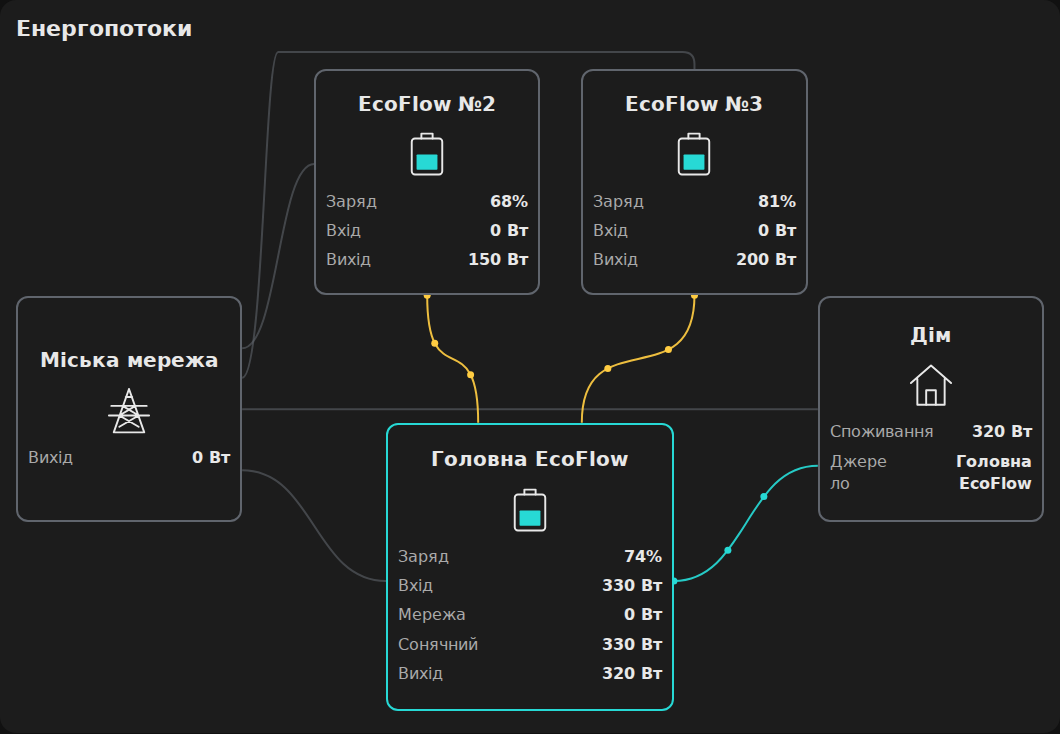
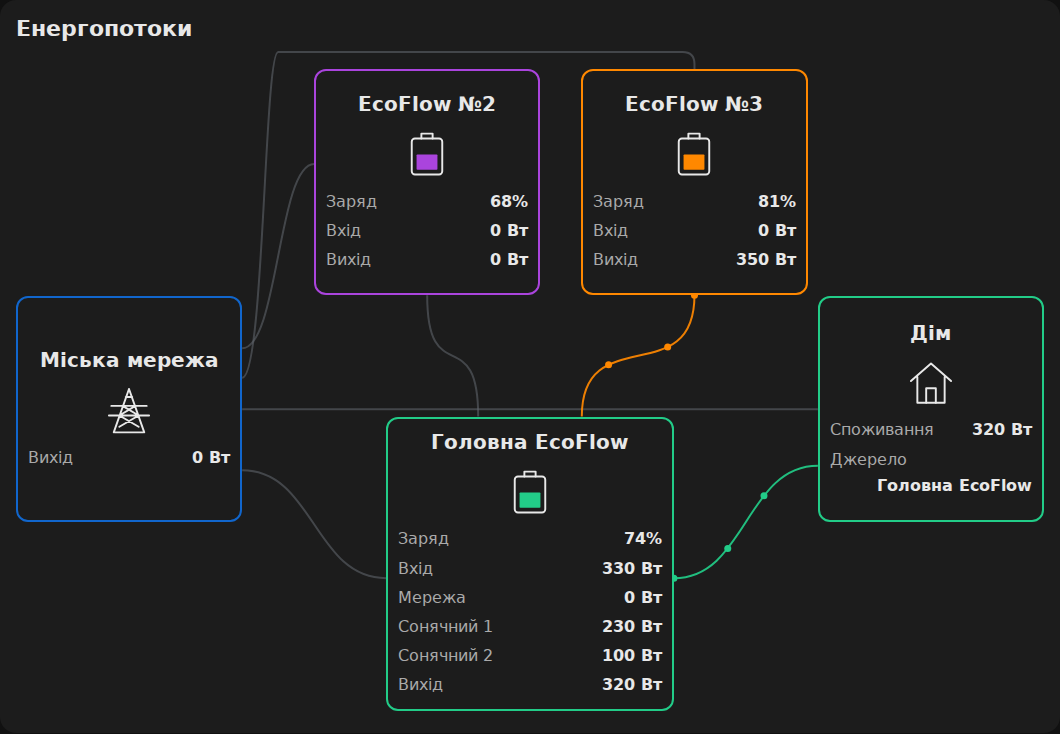
Add two solar inputs and matching source colors

diff --git a/suris-ecoflow-flow-card.js b/suris-ecoflow-flow-card.js
@@ -1,8 +1,8 @@
-/* Suris EcoFlow Flow Card v0.1.3 | MIT | No external dependencies. */
+/* Suris EcoFlow Flow Card v0.1.4 | MIT | No external dependencies. */
 (() => {
   'use strict';
   const TAG = 'suris-ecoflow-flow-card';
-  const VERSION = '0.1.3';
+  const VERSION = '0.1.4';
   const NS = 'http://www.w3.org/2000/svg';
   const DEFAULTS = {
     type: `custom:${TAG}`, title: 'Енергопотоки', language: 'uk',
@@ -24,10 +24,12 @@
       result[key] = { ...DEFAULTS[key], ...config[key] };
     }
     const a = result.appearance;
+    a.auxiliary_1_color = a.auxiliary_1_color || a.solar_color;
+    a.auxiliary_2_color = a.auxiliary_2_color || a.solar_color;
     a.threshold = Number(a.threshold); a.duration = Number(a.duration);
     if (!Number.isFinite(a.threshold) || a.threshold < 0) throw new Error('Flow threshold must be a non-negative number');
     if (!Number.isFinite(a.duration) || a.duration < 0.5 || a.duration > 20) throw new Error('Animation duration must be between 0.5 and 20 seconds');
-    for (const key of ['grid_color', 'solar_color', 'main_color']) {
+    for (const key of ['grid_color', 'solar_color', 'main_color', 'auxiliary_1_color', 'auxiliary_2_color']) {
       if (!/^#[0-9a-f]{6}$/i.test(a[key])) throw new Error(`${key} must be a six-digit hex color`);
     }
     return result;
@@ -46,8 +48,13 @@
     const c = config, p = (id) => readNumber(states, id, true);
     const station = (s) => ({ input: p(s.input_power), output: p(s.output_power), soc: readNumber(states, s.soc) });
     const main = station(c.main), auxiliary_1 = station(c.auxiliary_1), auxiliary_2 = station(c.auxiliary_2);
-    main.ac = p(c.main.ac_input_power); main.solar = p(c.main.solar_input_power);
-    if (!c.main.input_power && main.ac != null && main.solar != null) main.input = main.ac + main.solar;
+    main.ac = p(c.main.ac_input_power);
+    main.solar_1 = p(c.main.solar_input_power);
+    main.solar_2 = p(c.main.solar_input_power_2);
+    if (!c.main.input_power) {
+      const inputs = [c.main.ac_input_power, c.main.solar_input_power, c.main.solar_input_power_2].filter(Boolean).map(p);
+      if (inputs.length && inputs.every(value => value != null)) main.input = inputs.reduce((sum, value) => sum + value, 0);
+    }
     const gridState = c.grid.available_entity && states[c.grid.available_entity]?.state;
     const availableState = String(c.grid.available_state || 'on');
     const absentState = availableState === 'on' ? 'off' : availableState === 'off' ? 'on' : null;
@@ -73,13 +80,12 @@
       }
     }
     const positive = (value) => value != null && value > c.appearance.threshold;
-    const solarReceiving = !c.main.solar_input_power || positive(main.solar);
     const flows = {
       grid_auxiliary_1: gridAvailable && positive(p(c.auxiliary_1.grid_charge_power || c.auxiliary_1.input_power)),
       grid_auxiliary_2: gridAvailable && positive(p(c.auxiliary_2.grid_charge_power || c.auxiliary_2.input_power)),
       grid_main: gridAvailable && positive(main.ac),
-      auxiliary_1_main: solarReceiving && positive(p(c.auxiliary_1.transfer_power || c.auxiliary_1.output_power)),
-      auxiliary_2_main: solarReceiving && positive(p(c.auxiliary_2.transfer_power || c.auxiliary_2.output_power)),
+      auxiliary_1_main: positive(p(c.auxiliary_1.transfer_power || c.auxiliary_1.output_power)),
+      auxiliary_2_main: positive(p(c.auxiliary_2.transfer_power || c.auxiliary_2.output_power)),
       grid_home: gridAvailable && source === 'grid' && positive(homePower),
       main_home: source === 'main' && positive(homePower)
     };
@@ -94,17 +100,17 @@
     return `<svg viewBox="0 0 64 64" aria-hidden="true">${paths[kind]}</svg>`;
   };
   const CSS = `
-    :host{display:block;--flow-grid:#4b9fff;--flow-solar:#ffcc42;--flow-main:#27d9d5}
+    :host{display:block;--flow-grid:#4b9fff;--flow-auxiliary_1:#ffcc42;--flow-auxiliary_2:#ffcc42;--flow-main:#27d9d5}
     *{box-sizing:border-box}ha-card{display:block;overflow:hidden;background:var(--ha-card-background,var(--card-background-color,#1c1c1c));color:var(--primary-text-color,#e8e8e8);padding:16px;border-radius:var(--ha-card-border-radius,16px)}
     .wrap{container-type:inline-size}h2{font-size:22px;font-weight:600;margin:0 0 8px}.diagram{position:relative;height:clamp(470px,65cqw,720px)}
     .lines{position:absolute;inset:0;width:100%;height:100%;overflow:visible;pointer-events:none}
     .flow path{fill:none;stroke:var(--divider-color,#60656d);stroke-width:2;opacity:.58}.flow.active path{stroke:var(--color);opacity:.92}.flow circle{fill:var(--color);visibility:hidden}.flow.active circle{visibility:visible}
-    .node{position:absolute;display:flex;flex-direction:column;justify-content:center;gap:7px;min-width:0;background:var(--ha-card-background,var(--card-background-color,#1c1c1c));border:2px solid var(--divider-color,#60656d);border-radius:12px;padding:12px 10px;z-index:1;min-height:max(140px,22cqw);height:auto}
-    .node h3{font-size:clamp(12px,1.9cqw,20px);line-height:1.25;text-align:center;margin:0;font-weight:600;overflow-wrap:anywhere}.node .icon{display:flex;justify-content:center;height:clamp(30px,5cqw,56px);margin:4px 0}.icon svg{height:100%;width:64px;fill:none;stroke:currentColor;stroke-width:2.4;stroke-linecap:round;stroke-linejoin:round}.icon .battery-fill{fill:var(--flow-main);stroke:none}
-    .row{display:flex;align-items:baseline;justify-content:space-between;gap:4px;font-size:clamp(11px,1.6cqw,17px);line-height:1.35;min-width:0}.label{color:var(--secondary-text-color,#aaa);overflow-wrap:anywhere}.value{font:inherit;color:inherit;font-weight:600;text-align:right;white-space:nowrap;background:none;border:0;padding:0;min-width:0}.value[data-entity]{cursor:pointer}.value:focus-visible{outline:2px solid var(--flow-main);outline-offset:2px}.value:disabled{opacity:1}.source .value{white-space:normal;overflow-wrap:anywhere}
-    .grid{left:0;top:37%;width:22%}.home{right:0;top:37%;width:22%}.auxiliary_1{left:29%;top:3%;width:22%}.auxiliary_2{left:55%;top:3%;width:22%}.main{left:36%;bottom:1%;width:28%;min-height:max(220px,28cqw);border-color:var(--flow-main)}
+    .node{position:absolute;display:flex;flex-direction:column;justify-content:center;gap:7px;min-width:0;background:var(--ha-card-background,var(--card-background-color,#1c1c1c));border:2px solid var(--node-color,var(--divider-color,#60656d));border-radius:12px;padding:12px 10px;z-index:1;min-height:max(140px,22cqw);height:auto}
+    .node h3{font-size:clamp(12px,1.9cqw,20px);line-height:1.25;text-align:center;margin:0;font-weight:600;overflow-wrap:anywhere}.node .icon{display:flex;justify-content:center;height:clamp(30px,5cqw,56px);margin:4px 0}.icon svg{height:100%;width:64px;fill:none;stroke:currentColor;stroke-width:2.4;stroke-linecap:round;stroke-linejoin:round}.icon .battery-fill{fill:var(--node-color,var(--flow-main));stroke:none}
+    .row{display:flex;align-items:baseline;justify-content:space-between;gap:4px;font-size:clamp(11px,1.6cqw,17px);line-height:1.35;min-width:0}.label{color:var(--secondary-text-color,#aaa);overflow-wrap:anywhere}.value{font:inherit;color:inherit;font-weight:600;text-align:right;white-space:nowrap;background:none;border:0;padding:0;min-width:0}.value[data-entity]{cursor:pointer}.value:focus-visible{outline:2px solid var(--flow-main);outline-offset:2px}.value:disabled{opacity:1}.source{flex-wrap:wrap}.source .label{width:100%}.source .value{margin-left:auto;white-space:normal;overflow-wrap:anywhere}
+    .grid{left:0;top:37%;width:22%}.home{right:0;top:37%;width:22%}.auxiliary_1{left:29%;top:3%;width:22%}.auxiliary_2{left:55%;top:3%;width:22%}.main{left:36%;bottom:1%;width:28%;min-height:max(220px,28cqw)}
     .status{margin-top:8px;color:var(--secondary-text-color,#aaa);font-size:12px;min-height:16px;text-align:center}.status:empty{display:none}
-    @container(max-width:520px){.diagram{height:500px}.node{padding:8px 5px;gap:6px;border-radius:9px;min-height:137px}.node h3{font-size:12px}.node .icon{height:29px;margin:0}.row{font-size:11px;flex-wrap:wrap;gap:0 3px}.row .value{margin-left:auto}.grid,.home{width:24%;top:38%}.auxiliary_1{left:26%;width:25%;top:5%}.auxiliary_2{left:54%;width:25%;top:5%}.main{left:33%;width:34%;min-height:202px}.source .label{width:100%}}
+    @container(max-width:520px){.diagram{height:500px}.node{padding:8px 5px;gap:6px;border-radius:9px;min-height:137px}.node h3{font-size:12px}.node .icon{height:29px;margin:0}.row{font-size:11px;flex-wrap:wrap;gap:0 3px}.row .value{margin-left:auto}.grid,.home{width:24%;top:38%}.home .power .label{font-size:clamp(8px,2.8cqw,11px);overflow-wrap:normal}.auxiliary_1{left:26%;width:25%;top:5%}.auxiliary_2{left:54%;width:25%;top:5%}.main{left:33%;width:34%;min-height:202px}}
     @media(prefers-reduced-motion:reduce){.flow circle{display:none}.flow.active path{stroke-width:3}}
   `;
   class SurisEcoFlowFlowCard extends HTMLElement {
@@ -148,9 +154,10 @@
       this.shadowRoot.querySelector('h2').textContent = c.title;
       this._diagram = this.shadowRoot.querySelector('.diagram'); this._svg = this.shadowRoot.querySelector('.lines');
       this._nodes = {}; this._values = {}; this._flows = {};
-      this.style.setProperty('--flow-grid', c.appearance.grid_color); this.style.setProperty('--flow-solar', c.appearance.solar_color); this.style.setProperty('--flow-main', c.appearance.main_color);
+      for (const key of ['grid', 'auxiliary_1', 'auxiliary_2', 'main']) this.style.setProperty(`--flow-${key}`, c.appearance[`${key}_color`]);
       for (const key of ['grid', 'auxiliary_1', 'auxiliary_2', 'main', 'home']) {
         const node = document.createElement('section'); node.className = `node ${key}`; node.dataset.key = key;
+        if (key !== 'home') node.style.setProperty('--node-color', `var(--flow-${key})`);
         const heading = document.createElement('h3'); heading.textContent = c[key].name || text[key] || key;
         const artwork = document.createElement('div'); artwork.className = 'icon'; artwork.innerHTML = icon(key === 'grid' ? 'grid' : key === 'home' ? 'home' : 'battery');
         node.append(heading, artwork);
@@ -158,7 +165,7 @@
         else if (key === 'home') { this._row(node, 'power', text.power); this._row(node, 'source', text.source); }
         else {
           this._row(node, 'soc', text.soc); this._row(node, 'input', text.input);
-          if (key === 'main') { this._row(node, 'ac', text.ac); this._row(node, 'solar', text.solar); }
+          if (key === 'main') { this._row(node, 'ac', text.ac); this._row(node, 'solar_1', `${text.solar} 1`); this._row(node, 'solar_2', `${text.solar} 2`); }
           this._row(node, 'output', text.output);
         }
         this._nodes[key] = node; this._diagram.append(node);
@@ -179,7 +186,8 @@
         if (node === 'grid') entity = c.grid.power;
         if (node === 'home') entity = field === 'source' ? c.grid.available_entity : c.home.power;
         if (node === 'main' && field === 'ac') entity = c.main.ac_input_power;
-        if (node === 'main' && field === 'solar') entity = c.main.solar_input_power;
+        if (node === 'main' && field === 'solar_1') entity = c.main.solar_input_power;
+        if (node === 'main' && field === 'solar_2') entity = c.main.solar_input_power_2;
         if (field === 'source') value = value === 'grid' ? c.grid.name : value === 'main' ? c.main.name : text.unknown;
         else if (field === 'soc') value = value != null && value >= 0 && value <= 100 ? `${formatter.format(value)}%` : '—';
         else value = value == null ? '—' : `${node === 'home' && data.home.power_origin === 'grid_balance' ? '≈ ' : ''}${formatter.format(value)} ${text.watts}`;
@@ -191,6 +199,7 @@
       }
       const status = this.shadowRoot.querySelector('.status');
       status.textContent = !c.grid.available_entity ? text.setup : data.home.source === 'unknown' ? text.mismatch : '';
+      this._nodes.home.style.setProperty('--node-color', data.home.source === 'unknown' ? 'var(--divider-color,#60656d)' : `var(--flow-${data.home.source})`);
       for (const [name, flow] of Object.entries(this._flows)) flow.classList.toggle('active', data.flows[name]);
     }
     _drawPaths() {
@@ -213,7 +222,7 @@
       this._geometry = geometry; this._svg.setAttribute('viewBox', `0 0 ${base.width} ${base.height}`); this._svg.replaceChildren(); this._flows = {};
       for (const [name, route] of Object.entries(routes)) {
         const group = document.createElementNS(NS, 'g'); group.classList.add('flow'); group.dataset.flow = name;
-        const color = name.startsWith('grid') ? 'grid' : name === 'main_home' ? 'main' : 'solar';
+        const color = name.startsWith('grid') ? 'grid' : name === 'main_home' ? 'main' : name.startsWith('auxiliary_1') ? 'auxiliary_1' : 'auxiliary_2';
         group.style.setProperty('--color', `var(--flow-${color})`);
         const path = document.createElementNS(NS, 'path'); path.setAttribute('d', route); group.append(path);
         for (let i = 0; i < 3; i++) {
@@ -237,8 +246,8 @@
     } catch (error) { console.debug(`${TAG}: form preload`, error); }
   }
   const FIELD_LABELS = {
-    uk: { title: 'Заголовок', language: 'Мова', name: 'Назва', power: 'Потужність', input_power: 'Загальна вхідна потужність', output_power: 'Загальна вихідна потужність', soc: 'Заряд батареї (%)', ac_input_power: 'Потужність входу від міської мережі (AC)', solar_input_power: 'Потужність сонячного входу (DC)', grid_charge_power: 'Потужність заряджання від мережі (необов’язково)', transfer_power: 'Потужність передачі на головну EcoFlow (необов’язково)', home_feed_power: 'Потужність виходу на дім (необов’язково)', available_entity: 'Наявність міської мережі', available_state: 'Стан «мережа є»', source_entity: 'Сутність джерела живлення дому', grid_state: 'Стан «дім від міської мережі»', main_state: 'Стан «дім від головної EcoFlow»', grid_color: 'Колір потоків мережі (#RRGGBB)', solar_color: 'Колір передачі між станціями (#RRGGBB)', main_color: 'Колір потоку головна EcoFlow → дім (#RRGGBB)', threshold: 'Поріг активного потоку (Вт)', duration: 'Час проходження точки (с)' },
-    en: { title: 'Title', language: 'Language', name: 'Name', power: 'Power', input_power: 'Total input power', output_power: 'Total output power', soc: 'Battery charge (%)', ac_input_power: 'City grid input power (AC)', solar_input_power: 'Solar input power (DC)', grid_charge_power: 'Grid charging power (optional)', transfer_power: 'Transfer power to main EcoFlow (optional)', home_feed_power: 'Output power to home (optional)', available_entity: 'Grid availability', available_state: 'Grid available state', source_entity: 'Home power source entity', grid_state: 'State: home powered by grid', main_state: 'State: home powered by main EcoFlow', grid_color: 'Grid flow color (#RRGGBB)', solar_color: 'Station transfer color (#RRGGBB)', main_color: 'Main EcoFlow → home color (#RRGGBB)', threshold: 'Active flow threshold (W)', duration: 'Dot travel duration (s)' }
+    uk: { title: 'Заголовок', language: 'Мова', name: 'Назва', power: 'Потужність', input_power: 'Загальна вхідна потужність', output_power: 'Загальна вихідна потужність', soc: 'Заряд батареї (%)', ac_input_power: 'Потужність входу від міської мережі (AC)', solar_input_power: 'Потужність сонячного входу 1 (DC)', solar_input_power_2: 'Потужність сонячного входу 2 (DC)', grid_charge_power: 'Потужність заряджання від мережі (необов’язково)', transfer_power: 'Потужність передачі на головну EcoFlow (необов’язково)', home_feed_power: 'Потужність виходу на дім (необов’язково)', available_entity: 'Наявність міської мережі', available_state: 'Стан «мережа є»', source_entity: 'Сутність джерела живлення дому', grid_state: 'Стан «дім від міської мережі»', main_state: 'Стан «дім від головної EcoFlow»', grid_color: 'Колір мережі: рамка та потоки (#RRGGBB)', auxiliary_1_color: 'Колір EcoFlow №2: рамка та потік (#RRGGBB)', auxiliary_2_color: 'Колір EcoFlow №3: рамка та потік (#RRGGBB)', solar_color: 'Колір передачі між станціями (#RRGGBB)', main_color: 'Колір головної EcoFlow: рамка та потік (#RRGGBB)', threshold: 'Поріг активного потоку (Вт)', duration: 'Час проходження точки (с)' },
+    en: { title: 'Title', language: 'Language', name: 'Name', power: 'Power', input_power: 'Total input power', output_power: 'Total output power', soc: 'Battery charge (%)', ac_input_power: 'City grid input power (AC)', solar_input_power: 'Solar input 1 power (DC)', solar_input_power_2: 'Solar input 2 power (DC)', grid_charge_power: 'Grid charging power (optional)', transfer_power: 'Transfer power to main EcoFlow (optional)', home_feed_power: 'Output power to home (optional)', available_entity: 'Grid availability', available_state: 'Grid available state', source_entity: 'Home power source entity', grid_state: 'State: home powered by grid', main_state: 'State: home powered by main EcoFlow', grid_color: 'Grid border and flow color (#RRGGBB)', auxiliary_1_color: 'EcoFlow #2 border and flow color (#RRGGBB)', auxiliary_2_color: 'EcoFlow #3 border and flow color (#RRGGBB)', solar_color: 'Station transfer color (#RRGGBB)', main_color: 'Main EcoFlow border and flow color (#RRGGBB)', threshold: 'Active flow threshold (W)', duration: 'Dot travel duration (s)' }
   };
   const entityField = (name, power = true) => ({ name, selector: { entity: power ? { domain: 'sensor' } : {} } });
   const textField = (name) => ({ name, selector: { text: {} } });
@@ -267,9 +276,9 @@
         ['grid', text.grid, [textField('name'), entityField('power'), entityField('available_entity', false), textField('available_state')], ''],
         ['auxiliary_1', c.auxiliary_1.name, [...stationSchema, entityField('grid_charge_power'), entityField('transfer_power')], text.auxHint],
         ['auxiliary_2', c.auxiliary_2.name, [...stationSchema, entityField('grid_charge_power'), entityField('transfer_power')], text.auxHint],
-        ['main', text.main, [...stationSchema, entityField('ac_input_power'), entityField('solar_input_power'), entityField('home_feed_power')], text.mainHint],
+        ['main', text.main, [...stationSchema, entityField('ac_input_power'), entityField('solar_input_power'), entityField('solar_input_power_2'), entityField('home_feed_power')], text.mainHint],
         ['home', text.home, [textField('name'), entityField('power')], `${text.sourceHint} ${text.homeDerived}`],
-        ['appearance', c.language === 'en' ? 'Flow appearance' : 'Вигляд потоків', [textField('grid_color'), textField('solar_color'), textField('main_color'), { name: 'threshold', selector: { number: { min: 0, max: 1000, step: 1, mode: 'box', unit_of_measurement: text.watts } } }, { name: 'duration', selector: { number: { min: .5, max: 20, step: .5, mode: 'box', unit_of_measurement: 's' } } }], text.flowHint]
+        ['appearance', c.language === 'en' ? 'Flow appearance' : 'Вигляд потоків', [textField('grid_color'), textField('auxiliary_1_color'), textField('auxiliary_2_color'), textField('main_color'), { name: 'threshold', selector: { number: { min: 0, max: 1000, step: 1, mode: 'box', unit_of_measurement: text.watts } } }, { name: 'duration', selector: { number: { min: .5, max: 20, step: .5, mode: 'box', unit_of_measurement: 's' } } }], `${text.flowHint} ${c.language === 'en' ? 'Each source color applies to its border and outgoing flows. Home uses its active source color.' : 'Колір джерела застосовується до його рамки та вихідних потоків. Рамка дому має колір активного джерела.'}`]
       ];
       for (const [section, label, schema, hint] of sections) {
         const details = document.createElement('details'); details.open = !section;

diff --git a/demo.html b/demo.html
@@ -1,16 +1,16 @@
 <!doctype html>
 <html lang="uk"><head><meta charset="utf-8"><meta name="viewport" content="width=device-width,initial-scale=1"><title>Suris EcoFlow Flow Card — Demo</title>
 <style>body{margin:20px auto;padding:0 12px;max-width:1060px;background:#111;color:#eee;font:16px system-ui;--ha-card-background:#1c1c1c;--primary-text-color:#eee;--secondary-text-color:#aaa;--divider-color:#535861}nav{display:flex;gap:8px;flex-wrap:wrap;margin:16px 0}button{background:#222;border:1px solid #666;color:#eee;padding:10px 14px;border-radius:8px;cursor:pointer}button:focus-visible{outline:2px solid #27d9d5}p{color:#aaa;font-size:13px}</style>
-</head><body><nav><button data-mode="main">Дім від EcoFlow</button><button data-mode="grid">Дім від мережі</button><button data-mode="charging">Заряджання від мережі</button><button data-mode="unknown">Джерело недоступне</button></nav><suris-ecoflow-flow-card></suris-ecoflow-flow-card><p>Демонстраційні показники. Для встановлення відкрий README.md.</p>
+</head><body><nav><button data-mode="main">Дім від EcoFlow</button><button data-mode="aux3">Передача EcoFlow №3</button><button data-mode="grid">Дім від мережі</button><button data-mode="charging">Заряджання від мережі</button><button data-mode="unknown">Джерело недоступне</button></nav><suris-ecoflow-flow-card></suris-ecoflow-flow-card><p>Демонстраційні показники. Для встановлення відкрий README.md.</p>
 <script src="./suris-ecoflow-flow-card.js"></script><script>
 const card=document.querySelector('suris-ecoflow-flow-card');
 const make=(value,unit='W')=>({state:String(value),attributes:{unit_of_measurement:unit}});
 const states={};
-const config={type:'custom:suris-ecoflow-flow-card',grid:{power:'sensor.grid',available_entity:'binary_sensor.grid',available_state:'on'},auxiliary_1:{soc:'sensor.a_soc',input_power:'sensor.a_in',output_power:'sensor.a_out'},auxiliary_2:{soc:'sensor.b_soc',input_power:'sensor.b_in',output_power:'sensor.b_out'},main:{soc:'sensor.m_soc',input_power:'sensor.m_in',output_power:'sensor.m_out',ac_input_power:'sensor.m_ac',solar_input_power:'sensor.m_pv'},home:{}};
+const config={type:'custom:suris-ecoflow-flow-card',grid:{power:'sensor.grid',available_entity:'binary_sensor.grid',available_state:'on'},auxiliary_1:{soc:'sensor.a_soc',input_power:'sensor.a_in',output_power:'sensor.a_out'},auxiliary_2:{soc:'sensor.b_soc',input_power:'sensor.b_in',output_power:'sensor.b_out'},main:{soc:'sensor.m_soc',input_power:'sensor.m_in',output_power:'sensor.m_out',ac_input_power:'sensor.m_ac',solar_input_power:'sensor.m_pv',solar_input_power_2:'sensor.m_pv2'},home:{},appearance:{auxiliary_2_color:'#ff8800'}};
 card.setConfig(config);
 function update(mode){
 const charging=mode==='charging',grid=mode==='grid'||charging;
-Object.assign(states,{'sensor.grid':make(grid?(charging?1250:320):0),'binary_sensor.grid':make(mode==='unknown'?'unavailable':grid?'on':'off'),'sensor.a_soc':make(68,'%'),'sensor.b_soc':make(81,'%'),'sensor.m_soc':make(74,'%'),'sensor.a_in':make(charging?300:0),'sensor.b_in':make(charging?330:0),'sensor.a_out':make(charging?0:150),'sensor.b_out':make(charging?0:200),'sensor.m_in':make(charging?300:330),'sensor.m_ac':make(charging?300:0),'sensor.m_pv':make(charging?0:330),'sensor.m_out':make(grid?0:320),'sensor.home':make(320)});
+Object.assign(states,{'sensor.grid':make(grid?(charging?1250:320):0),'binary_sensor.grid':make(mode==='unknown'?'unavailable':grid?'on':'off'),'sensor.a_soc':make(68,'%'),'sensor.b_soc':make(81,'%'),'sensor.m_soc':make(74,'%'),'sensor.a_in':make(charging?300:0),'sensor.b_in':make(charging?330:0),'sensor.a_out':make(!charging&&mode!=='aux3'?350:0),'sensor.b_out':make(!charging&&mode==='aux3'?350:0),'sensor.m_in':make(charging?300:330),'sensor.m_ac':make(charging?300:0),'sensor.m_pv':make(charging?0:230),'sensor.m_pv2':make(charging?0:100),'sensor.m_out':make(grid?0:320),'sensor.home':make(320)});
 card.hass={states:{...states}};
 }
 document.querySelector('nav').addEventListener('click',e=>{if(e.target.dataset.mode)update(e.target.dataset.mode)});update('main');

diff --git a/README.md b/README.md
@@ -1,4 +1,4 @@
-# Suris EcoFlow Flow Card 0.1.3
+# Suris EcoFlow Flow Card 0.1.4
 
 Картка Home Assistant із візуальним редактором сутностей. Міська мережа ліворуч, дім праворуч, дві допоміжні EcoFlow зверху, головна EcoFlow знизу. Значення потужності містяться у квадратних блоках; на лініях лише рух потоку. Працює локально, без сторонніх бібліотек, CDN та збірки.
 
@@ -16,7 +16,7 @@
 
 1. Скопіюй `suris-ecoflow-flow-card.js` до папки `www` у каталозі конфігурації Home Assistant. Через Studio Code Server це зазвичай `/config/www`; в окремих версіях середовища каталог може відображатися як `/homeassistant/www`. Використовуй той каталог, у якому розташований `configuration.yaml`. Можна скористатися Samba або завантаженням файлу в редакторі. Якщо папку `www` щойно створено вперше, перезапусти Home Assistant.
 2. Відкрий **Налаштування → Панелі огляду → ⋮ → Ресурси → Додати ресурс**. Якщо «Ресурси» не видно, увімкни розширений режим у профілі користувача.
-3. URL: `/local/suris-ecoflow-flow-card.js?v=0.1.3`. Тип: **JavaScript module**.
+3. URL: `/local/suris-ecoflow-flow-card.js?v=0.1.4`. Тип: **JavaScript module**.
 4. Онови сторінку Home Assistant. За потреби очисть кеш інтерфейсу в застосунку.
 5. На панелі огляду натисни **Редагувати → Додати картку**, знайди **Suris EcoFlow Flow Card**.
 6. Вибери сутності у візуальному редакторі. YAML не потрібен.
@@ -29,14 +29,14 @@
 | --- | --- |
 | Міська мережа | Потужність, датчик наявності мережі та стан «мережа є» |
 | Кожна допоміжна EcoFlow | Заряд, загальний вхід, загальний вихід; необов’язково потужність заряджання від мережі та окрема потужність передачі на головну станцію |
-| Головна EcoFlow | Заряд, загальний вхід, загальний вихід, окремий AC-вхід від мережі, сонячний DC-вхід; необов’язково окремий вихід на дім |
+| Головна EcoFlow | Заряд, загальний вхід, загальний вихід, окремий AC-вхід від мережі, два окремі сонячні DC-входи; необов’язково окремий вихід на дім |
 | Дім | Необов’язковий датчик споживання |
 
 Джерел живлення дому лише два: міська мережа та головна EcoFlow. Якщо мережа є, дім живиться від мережі. Якщо мережі немає, дім живиться від головної станції. Окрема сутність перемикача дому не потрібна.
 
 У блоці міської мережі вибери датчик її наявності й стан «мережа є» (`on` за замовчуванням). Для двійкового датчика протилежний стан означає відсутність мережі. Якщо стан «мережа є» — `off`, стан `on` означає відсутність мережі. Недоступний, невідомий або не розпізнаний стан зупиняє обидві лінії живлення дому. Нульове споживання не означає відсутність мережі. Старі поля `home.source_entity`, `home.grid_state` та `home.main_state` ігноруються.
 
-Назви всіх п’яти блоків змінюються в редакторі. Мови редактора: українська та англійська. Колір трьох груп потоків, поріг активної потужності та швидкість руху точок також задаються через інтерфейс.
+Назви всіх п’яти блоків змінюються в редакторі. Мови редактора: українська та англійська. Окремі кольори мережі, кожної допоміжної та головної EcoFlow, поріг активної потужності та швидкість руху точок також задаються через інтерфейс.
 
 ## Якщо окремого датчика споживання дому немає
 
@@ -56,19 +56,25 @@
 | --- | --- |
 | Мережа → допоміжна EcoFlow | Окрема потужність заряджання від мережі перевищує поріг; якщо її не задано, використовується загальний вхід цієї станції |
 | Мережа → головна EcoFlow | Окрема потужність AC-входу перевищує поріг |
-| Допоміжна EcoFlow → головна | Окрема потужність передачі перевищує поріг; якщо її не задано, використовується загальний вихід допоміжної станції. Якщо сонячний вхід головної станції налаштовано, він також має показувати активне приймання |
+| Допоміжна EcoFlow → головна | Окрема потужність передачі перевищує поріг; якщо її не задано, використовується загальний вихід допоміжної станції. |
 | Мережа → дім | Джерело дому — мережа і споживання перевищує поріг |
 | Головна EcoFlow → дім | Джерело дому — головна станція і споживання перевищує поріг. Якщо датчик споживання не вибрано, для анімації використовується вихід головної станції на дім або її загальний вихід |
 
 Усі потоки від мережі потребують заданого стану «мережа є». Якщо датчик не вибрано або він недоступний, джерело дому невідоме й потоки від мережі неактивні.
 
-Вхід головної станції можна не вибирати: тоді картка додає AC-вхід і сонячний вхід, **лише якщо обидва показники доступні**. Загальний вхід ніколи не підміняє AC-вхід. Загальне споживання міської мережі не обчислюється з виходів станцій: для нього потрібен власний датчик. За відсутності окремого датчика дому цей загальний показник використовується для розрахунку залишку після заряджання станцій.
+Головна EcoFlow показує **Сонячний 1** та **Сонячний 2** окремо. Вибери сутність для кожного порту в її розділі редактора. Ці порти не прив’язуються до EcoFlow №2 чи №3 й не керують анімацією передачі між станціями. Допоміжні станції працюють по черзі: лінія активна за власною вихідною потужністю.
+
+Вхід головної станції можна не вибирати: тоді картка додає вибрані AC-вхід, сонячний 1 і сонячний 2, **лише якщо всі вибрані показники доступні**. Не вибраний порт не додається. Якщо вибрано датчик загального входу, використовується його значення. Старий датчик сонячного входу зберігається в полі «Сонячний 1»; якщо раніше це був сумарний датчик, заміни його окремим датчиком першого порту. Загальний вхід ніколи не підміняє AC-вхід. Загальне споживання міської мережі не обчислюється з виходів станцій: для нього потрібен власний датчик. За відсутності окремого датчика дому цей загальний показник використовується для розрахунку залишку після заряджання станцій.
 
 Поріг за замовчуванням — 3 Вт, час проходження точки — 3 с. Значення рівно на порозі не активує лінію. Картка підтримує потужності у W, kW, mW, MW, Вт, кВт і відображає їх у ватах. Датчики енергії Wh/kWh не підходять. Значення без одиниці трактуються як вати. SOC береться у відсотках.
 
-Якщо до допоміжної станції підключені інші навантаження, вибери окремий DC-вихід для передачі на головну. Загальний вихід у такому разі не показує лише цей потік. Картка не може розділити один сумарний датчик сонячного входу головної станції на два незалежні джерела: для окремих потоків потрібні показники кожної допоміжної станції.
+Якщо до допоміжної станції підключені інші навантаження, вибери окремий DC-вихід для передачі на головну. Загальний вихід у такому разі не показує лише цей потік. Сонячні входи головної станції відображаються незалежно від допоміжних станцій.
 
 Відсутні, недоступні або нечислові показники показуються як `—`, реальний нуль — як `0 Вт`. Натискання на показник відкриває докладну інформацію про його сутність. Картка не керує реле та виходами EcoFlow.
+
+## Кольори рамок і потоків
+
+У розділі **Вигляд потоків** задаються чотири окремі кольори у форматі `#RRGGBB`: мережа, EcoFlow №2, EcoFlow №3, головна EcoFlow. Кожен колір застосовується до рамки відповідного блоку, значка батареї та всіх його вихідних потоків. Наприклад, `#ff8800` для EcoFlow №3 робить оранжевими її рамку і потік до головної станції. Потоки мережі до станцій і дому мають колір мережі. Рамка дому має колір активного джерела; за невідомого джерела вона нейтральна. Попередній спільний колір передачі збережеться для обох допоміжних станцій до вибору окремих кольорів.
 
 ## Вигляд та перевірка
 

diff --git a/CHANGELOG.md b/CHANGELOG.md
@@ -1,5 +1,13 @@
 # Changelog
 
+## 0.1.4
+
+- Show two independent solar inputs on the main EcoFlow and add a visual entity selector for each port.
+- Sum configured AC and solar inputs when no total input sensor is selected; preserve the existing solar sensor as port 1.
+- Determine auxiliary transfer flows only from their own output readings, independently of the main solar ports.
+- Add separate colors for each auxiliary station and match source borders, battery icons and outgoing flows.
+- Match the home border to its active source color and preserve previous color settings.
+
 ## 0.1.3
 
 - Keep home consumption and the grid-to-home flow active when EcoFlow charging inputs are missing or unavailable.
